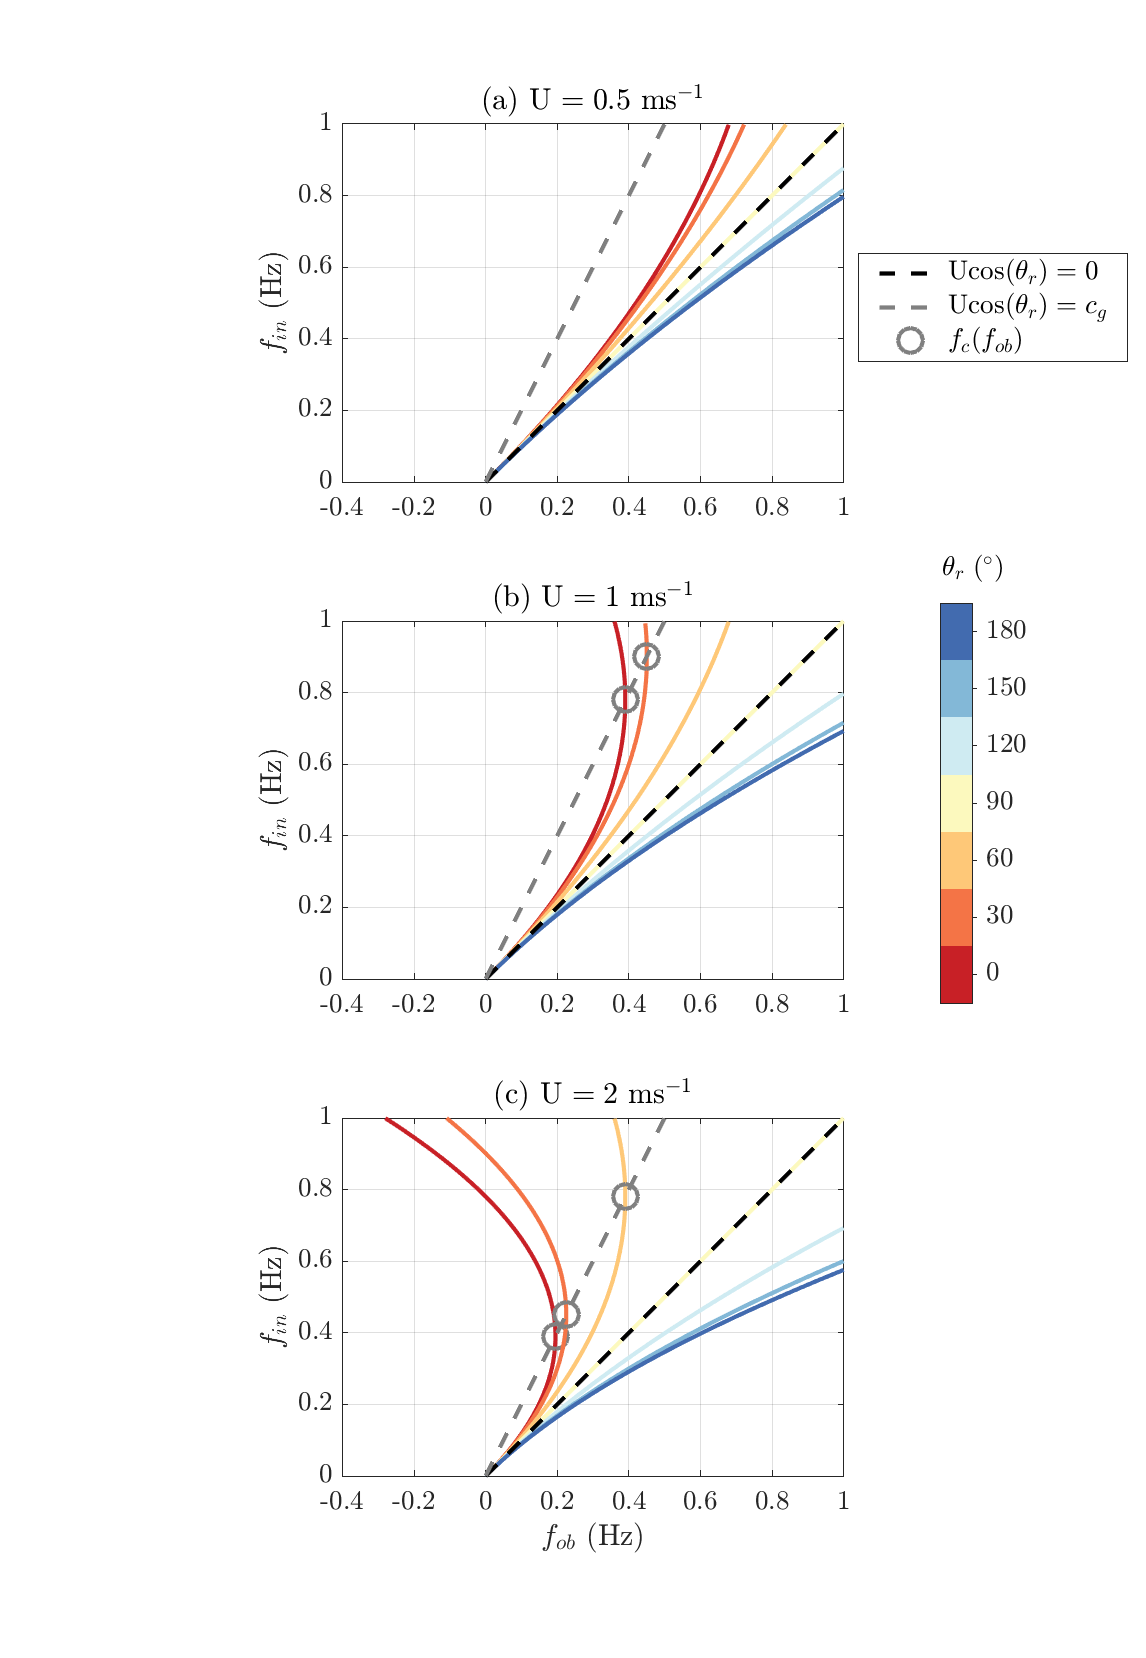
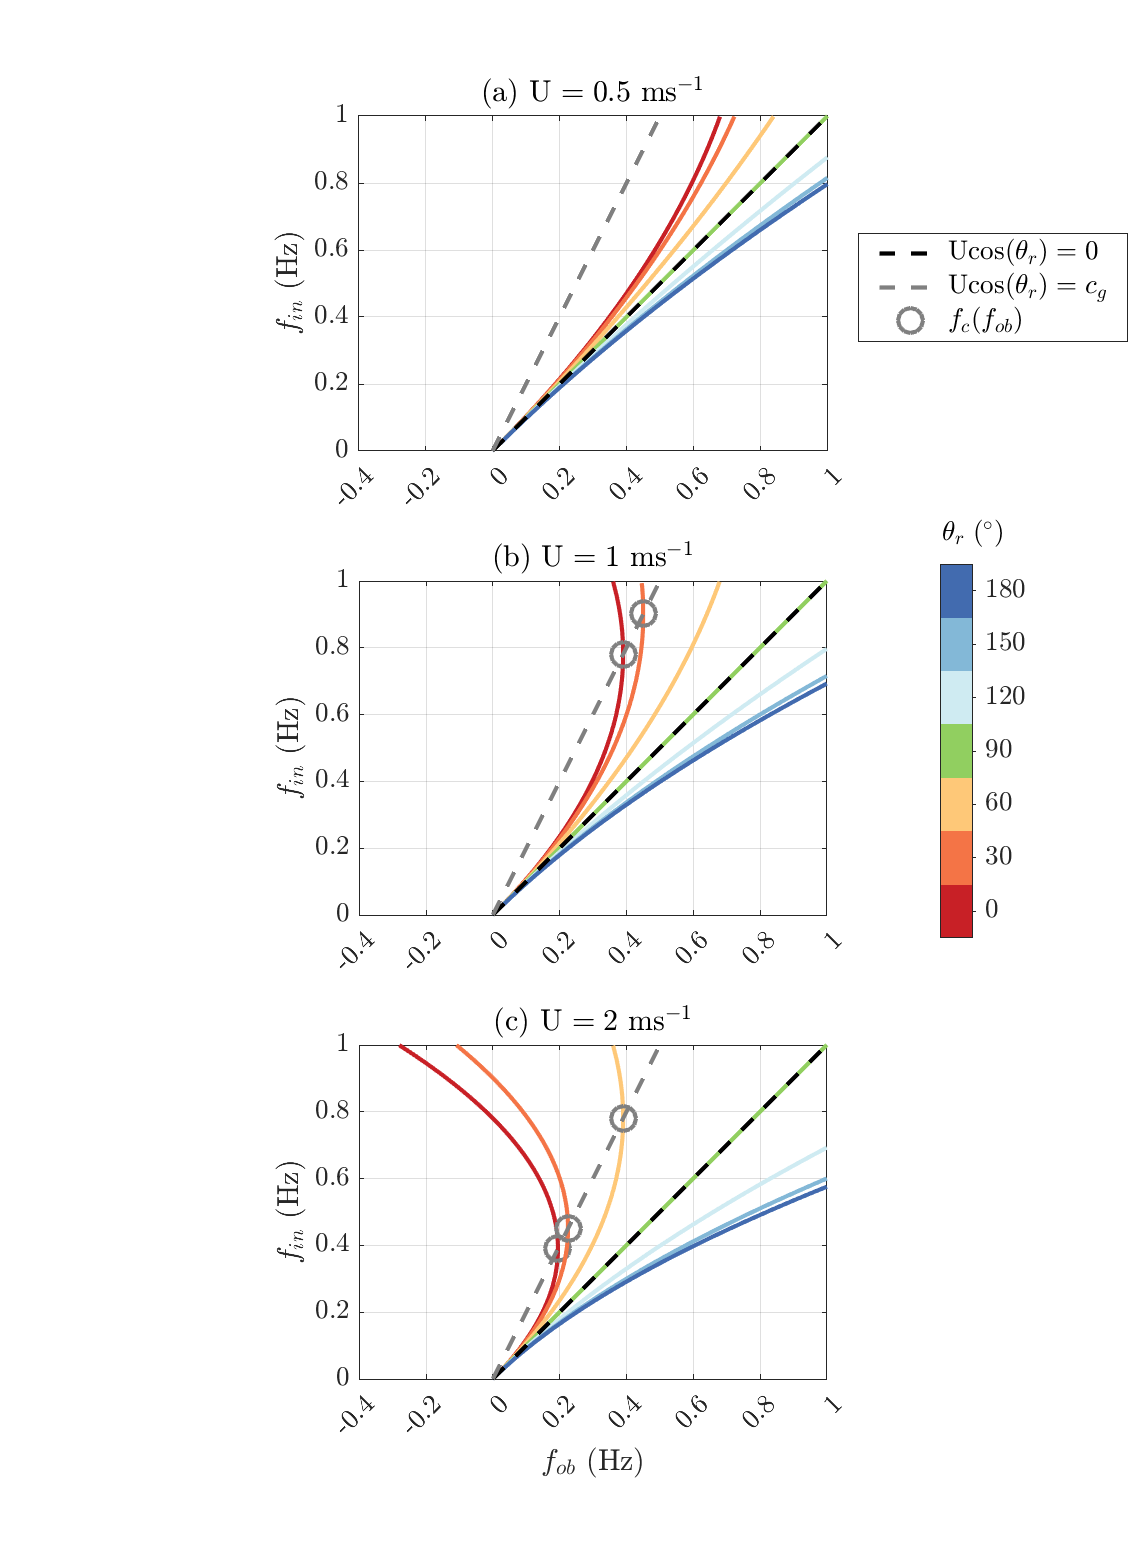
Change colorbar.

diff --git a/src/fig03.m b/src/fig03.m
@@ -213,7 +213,7 @@ fontsize = 13;
 % Obtain RGB triplet for colormap
 cmap = colormap(cbrewer2('RdYlBu'));
 
-% Bin average colorbar to match number of relative angle cases
+% % Bin average colorbar to match number of relative angle cases
 ntriplet = floor(length(cmap)/length(theta_r))*length(theta_r);             % number of RGB triplets that divide evenly into number of angle bins
 ncolor = floor(length(cmap)/length(theta_r));                               % number of triplet to be bin averaged
 cmap_bin = sepblockfun(cmap(1:ntriplet,:), [ncolor,1], @mean);
@@ -222,8 +222,12 @@ cmap_bin = sepblockfun(cmap(1:ntriplet,:), [ncolor,1], @mean);
 z_m = linspace(0,180,7);
 z = 0:12.8571:180;
 
+% Set an additional colormap for replacing the yellow in the RdYlBu
+% colormap
+cmap_set1 = cbrewer2('RdYlGn',7);
+
 % Obtain RGB triplet of colormap
-cmap = colormap(cmap_bin);
+cmap = colormap([cmap_bin(1:3,:); cmap_set1(6,:); cmap_bin(5:7,:)]);
 
 % Plot intrinsic frequency as a function of observed frequency
 for isubplot = 1:length(U)
@@ -245,6 +249,7 @@ for isubplot = 1:length(U)
             % Plot Ucos(theta_r) = 0 and Ucos(theta_r) = c_g 
             pc1 = plot(f_ob, f_ob, '--k', 'LineWidth', 2);
             pc2 = plot(f_ob, (2)*f_ob, 'LineStyle', '--', 'Color', [0.5 0.5 0.5], 'LineWidth', 2);
+            %xline(0.1, '-', 'Color', [0.5 0.5 0.5], 'LineWidth', 2)
 
             % Plot f_in at bifuraction frequencies
             if F.f_in_max(isubplot,iangle) < 1 && F.f_in_max(isubplot,iangle) > 0
@@ -282,7 +287,7 @@ for isubplot = 1:length(U)
 end
 
 %-------- Set Colorbar --------%
-colormap(cmap_bin);
+colormap(cmap);
 cb = colorbar;
 cb.Position = [0.8201 0.3949 0.0279 0.2415]; 
 cb.Ticks = z(2:2:end)/max(z);
